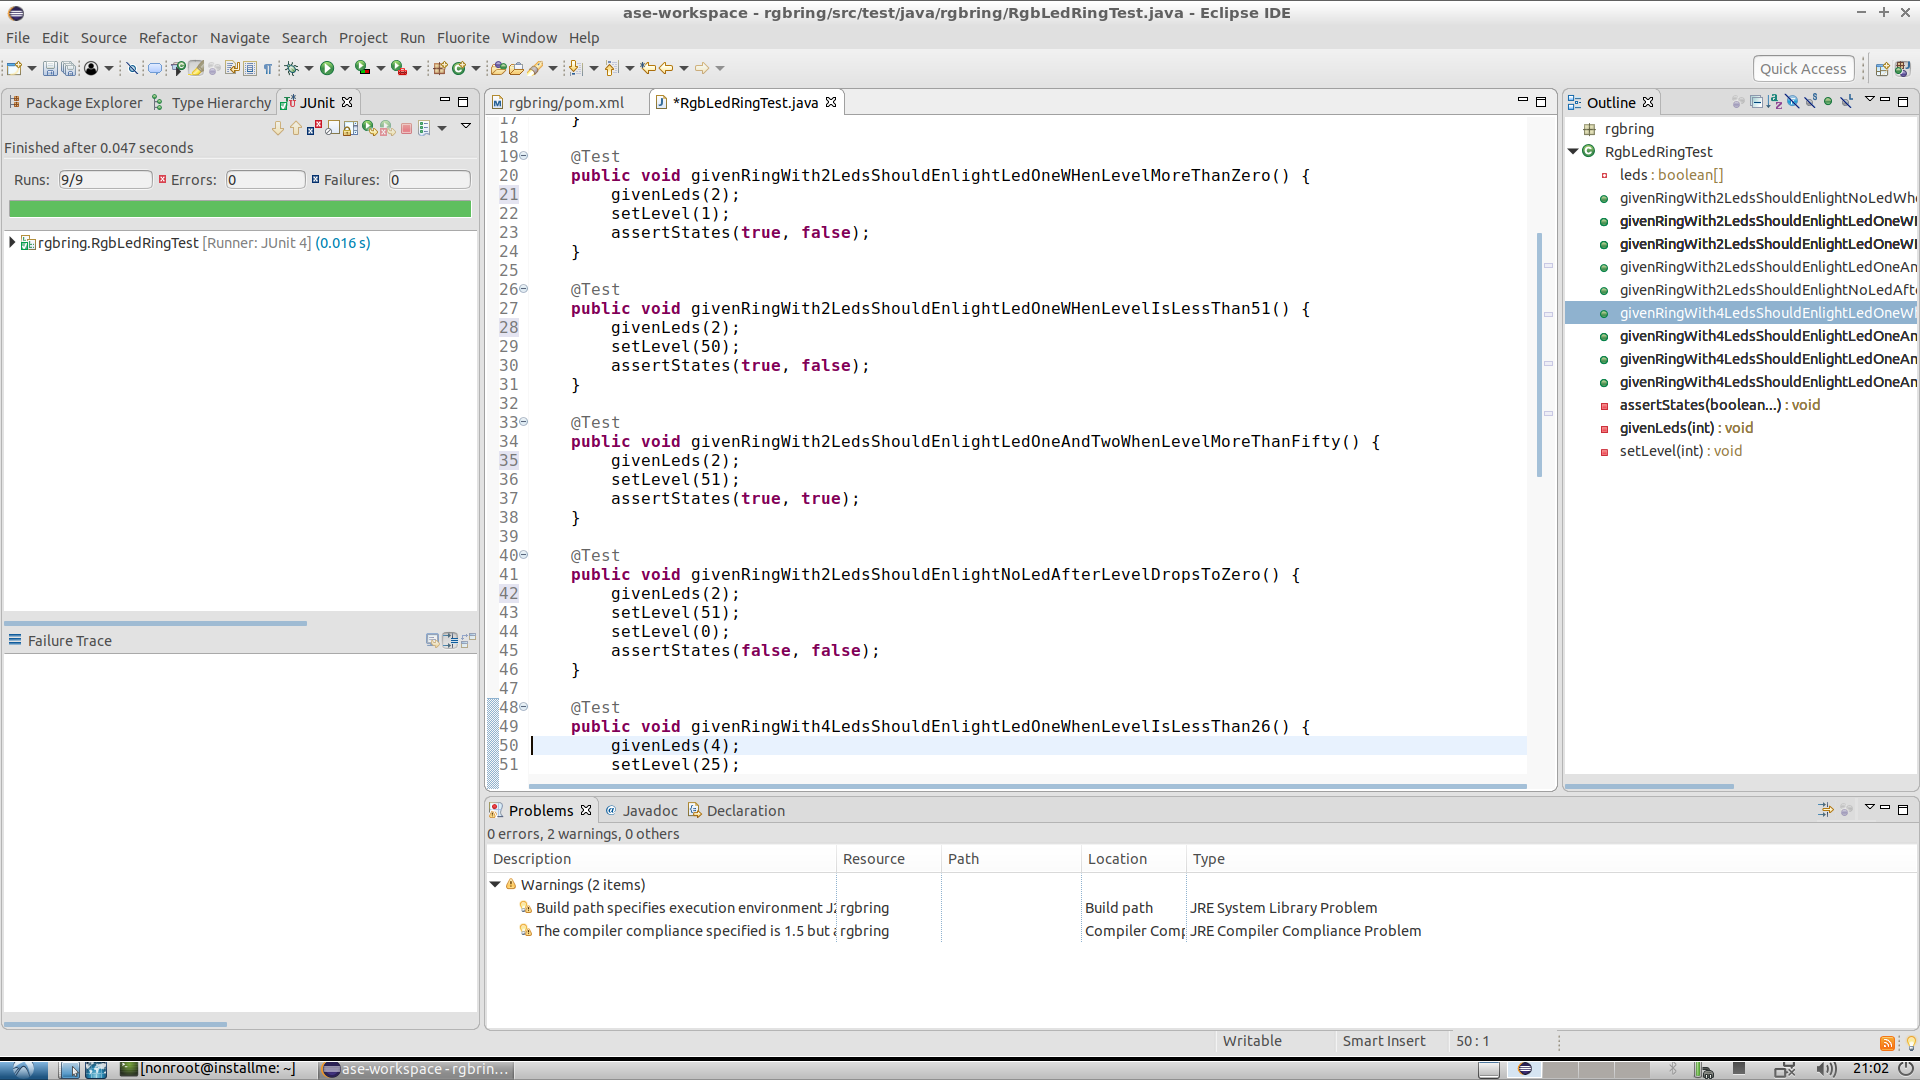
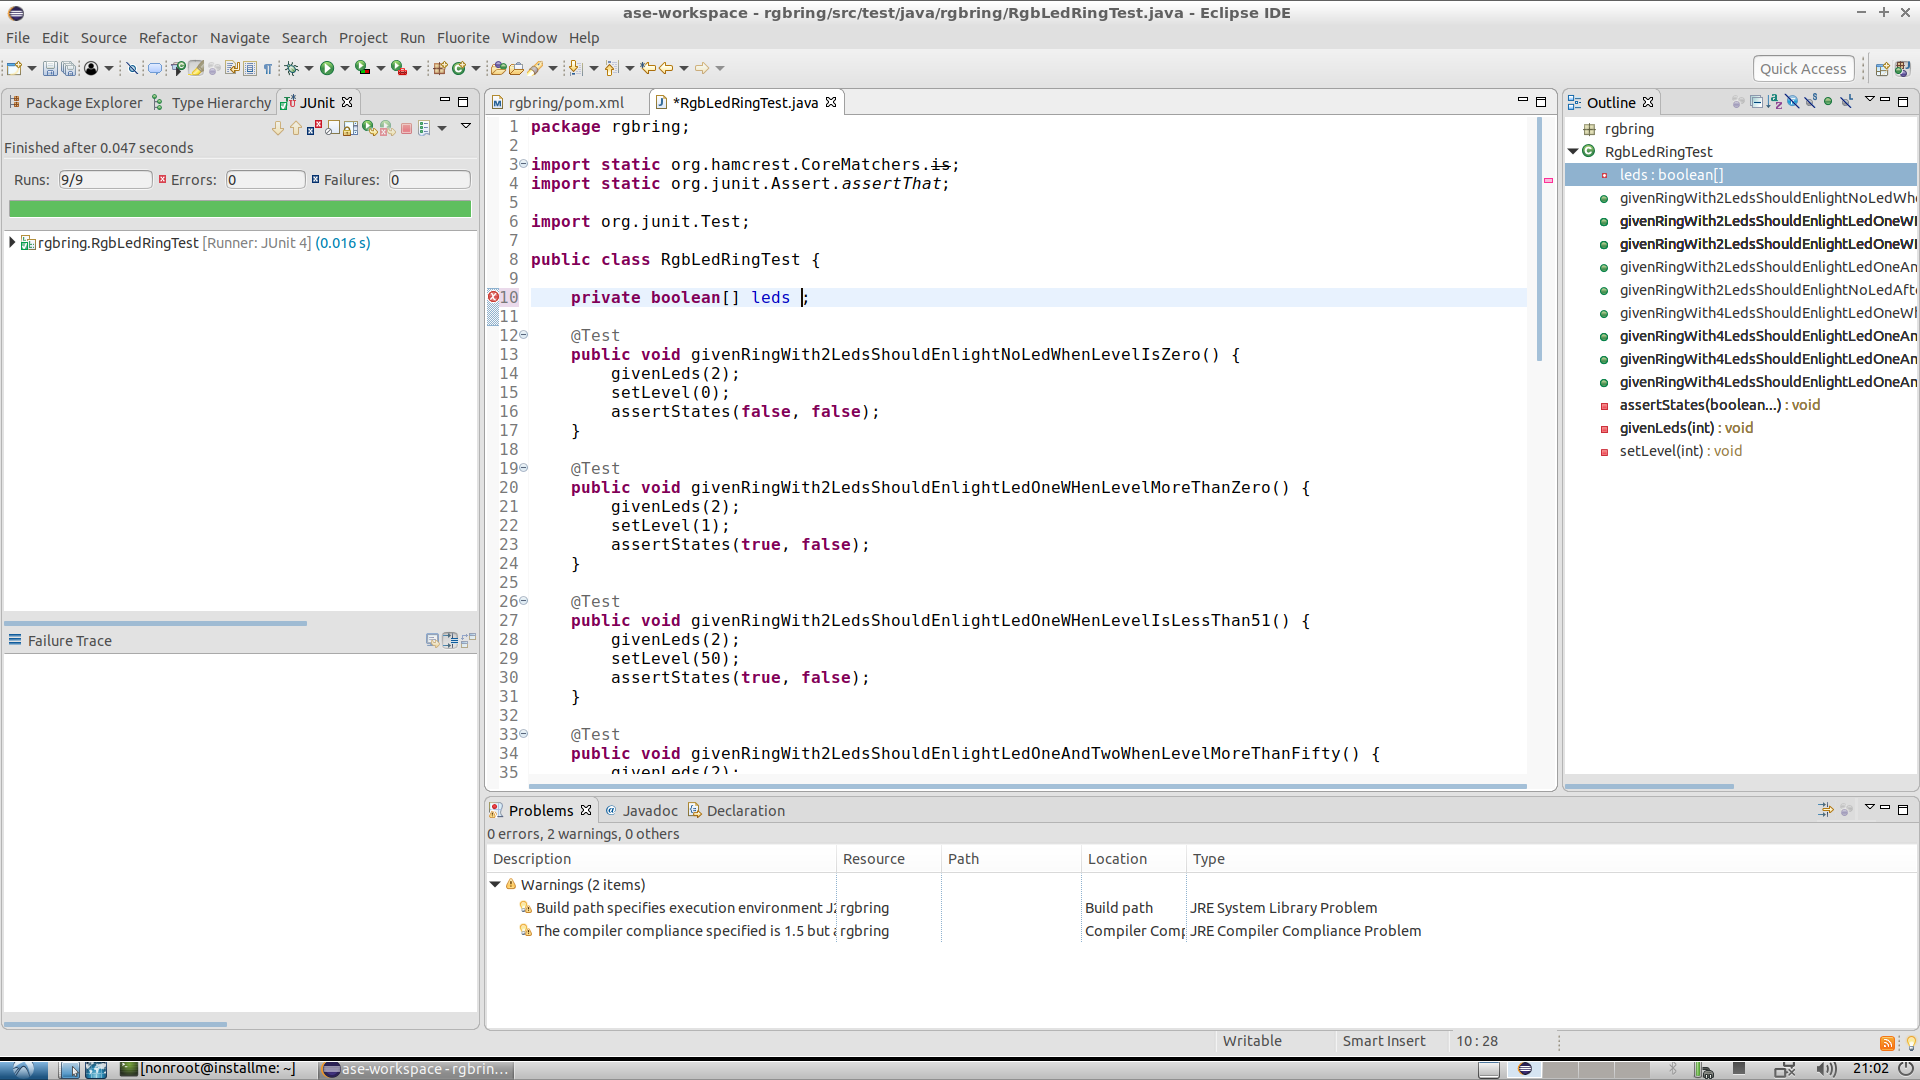
autocommit on change

Changed region(s): [[0.25, 0.0917, 0.7188, 0.7333], [0.7812, 0.1528, 1.0, 0.1833], [0.8125, 0.275, 1.0, 0.3056]]

diff --git a/src/test/java/rgbring/RgbLedRingTest.java b/src/test/java/rgbring/RgbLedRingTest.java
@@ -7,7 +7,7 @@ import org.junit.Test;
 
 public class RgbLedRingTest {
 
-	private boolean[] leds = new boolean[2];
+	private boolean[] leds ;
 
 	@Test
 	public void givenRingWith2LedsShouldEnlightNoLedWhenLevelIsZero() {
